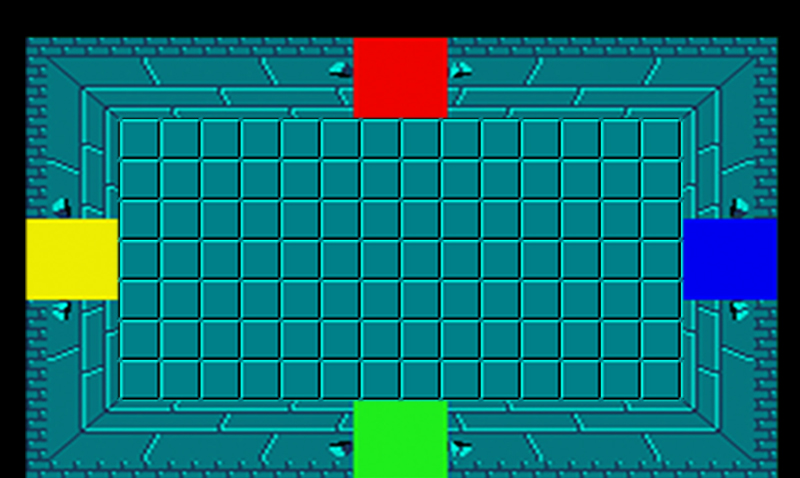
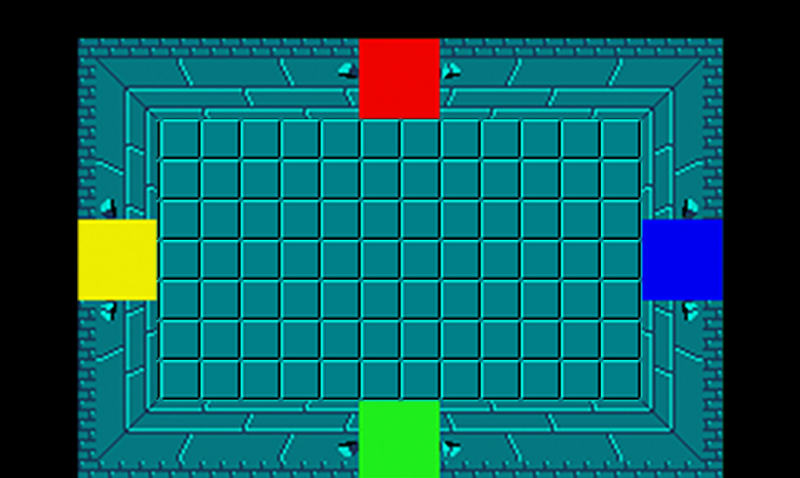
Updated background, Link Position and csv layouts

Changed region(s): [[0.0312, 0.0586, 1.0, 1.0], [0.6875, 0.8494, 0.75, 0.9079], [0.25, 0.8494, 0.3125, 0.9079]]

diff --git a/Sprint2Pork/Game1.cs b/Sprint2Pork/Game1.cs
@@ -109,7 +109,7 @@ namespace Sprint2Pork
             LoadTextures.loadAllTextures(allTextures, Content);
 
             font = Content.Load<SpriteFont>("File");
-            backgroundTexture = Content.Load<Texture2D>("Background");
+            backgroundTexture = Content.Load<Texture2D>("Room1");
             textSprite = new TextSprite(200, 100, font);
 
             GenerateBlocks.fillBlockList(blocks, allTextures[8], blockPosition);

diff --git a/Sprint2Pork/Link/Link.cs b/Sprint2Pork/Link/Link.cs
@@ -39,7 +39,7 @@ namespace Sprint2Pork
             actionState = new IdleActionState(this);
             ItemInUse = false;
             X = 115;
-            Y = 115;
+            Y = 200;
             OffsetX = 0;
             OffsetY = 0;
             attackFrameCount = 0;
